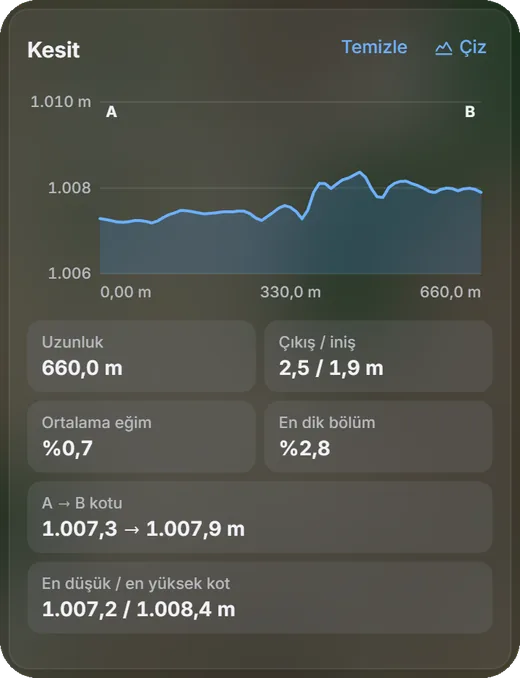
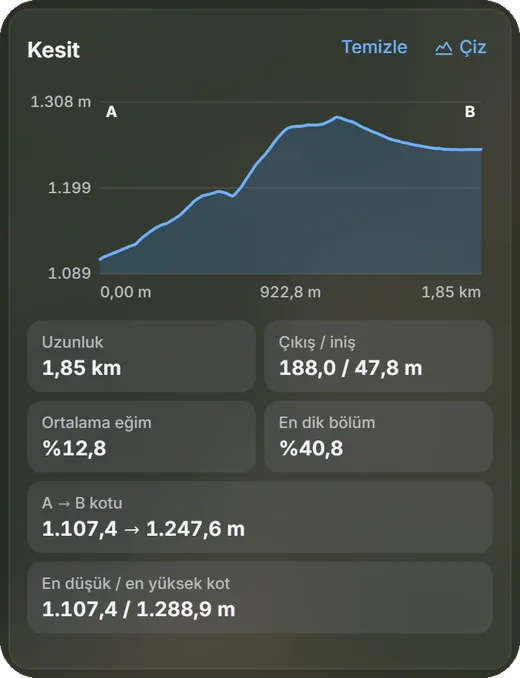
Site: Eğim ekranı Elmadağ'da eğimli bir yamaçtan
Çumra düz olduğu için eğim sınıfları görünmüyordu. Elmadağ'ın güneyinde çizilen bir alan (parselsiz,
TKGM sorgusu yok): bütün sınıflar dolu, 200 m kot farkı; kesit dere tabanından tepeye.

diff --git a/site/index.html b/site/index.html
@@ -157,8 +157,8 @@
     <!-- SCENE: slope and elevation -->
     <section class="rx-scene rx-scene--flip" aria-labelledby="s5">
       <div class="rx-scene__media">
-        <div class="rx-scene__cerceve"><img data-speed="6" src="assets/uygulama-egim-1920.webp" srcset="assets/uygulama-egim-1200.webp 1200w, assets/uygulama-egim-1920.webp 1920w, assets/uygulama-egim-3200.webp 3200w" sizes="(min-width: 768px) 60vw, 100vw" alt="Eğim sekmesi: Çumra ovası alanı eğim sınıflarına göre renkli, solda kot özeti ve eğim sınıflarının alanı, haritada A-B kesit hattı" loading="lazy" width="3200" height="2000"></div>
-        <img class="rx-scene__kesit" data-speed="-10" src="assets/kesit-egim-748.webp" srcset="assets/kesit-egim-520.webp 520w, assets/kesit-egim-748.webp 748w" sizes="(min-width: 768px) 22vw, 50vw" alt="Kesit: 660 m'lik hat boyunca yükseklik grafiği; çıkış, iniş, ortalama eğim ve en dik bölüm" loading="lazy" width="748" height="975">
+        <div class="rx-scene__cerceve"><img data-speed="6" src="assets/uygulama-egim-1920.webp" srcset="assets/uygulama-egim-1200.webp 1200w, assets/uygulama-egim-1920.webp 1920w, assets/uygulama-egim-3200.webp 3200w" sizes="(min-width: 768px) 60vw, 100vw" alt="Eğim sekmesi: Elmadağ'da bir yamaç, eğim sınıflarına göre düzden dike renkli; solda kot özeti (200 m kot farkı) ve eğim sınıflarının alanı, haritada A-B kesit hattı" loading="lazy" width="3200" height="2000"></div>
+        <img class="rx-scene__kesit" data-speed="-10" src="assets/kesit-egim-748.webp" srcset="assets/kesit-egim-520.webp 520w, assets/kesit-egim-748.webp 748w" sizes="(min-width: 768px) 22vw, 50vw" alt="Kesit: 1,85 km'lik hat boyunca yükseklik grafiği; 188 m çıkış, ortalama eğim ve en dik bölüm" loading="lazy" width="748" height="975">
       </div>
       <div class="rx-scene__copy">
         <p class="rx-eyebrow" data-reveal>Eğim ve yükseklik</p>
